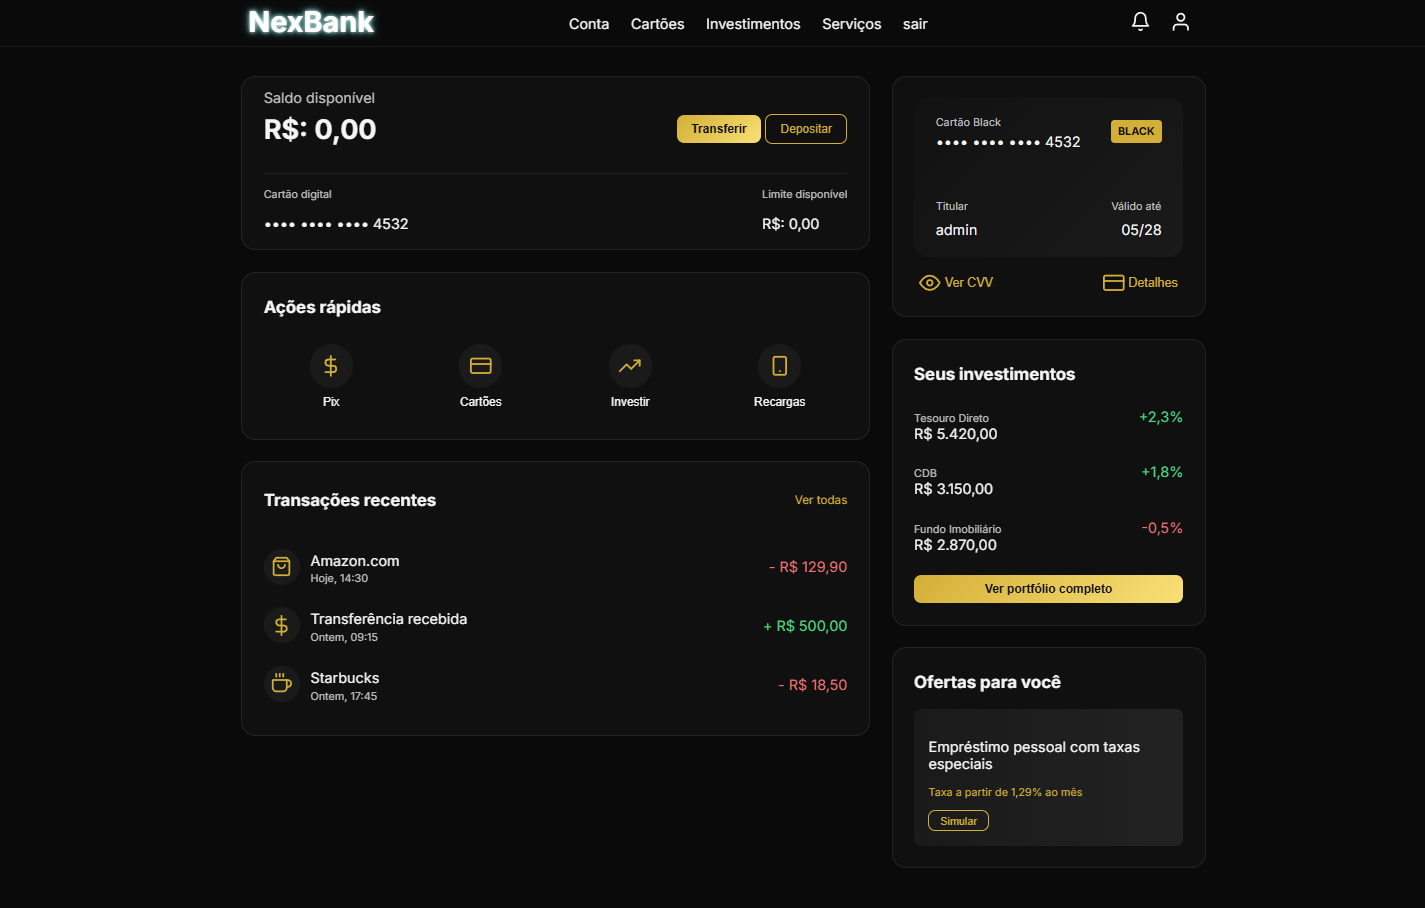
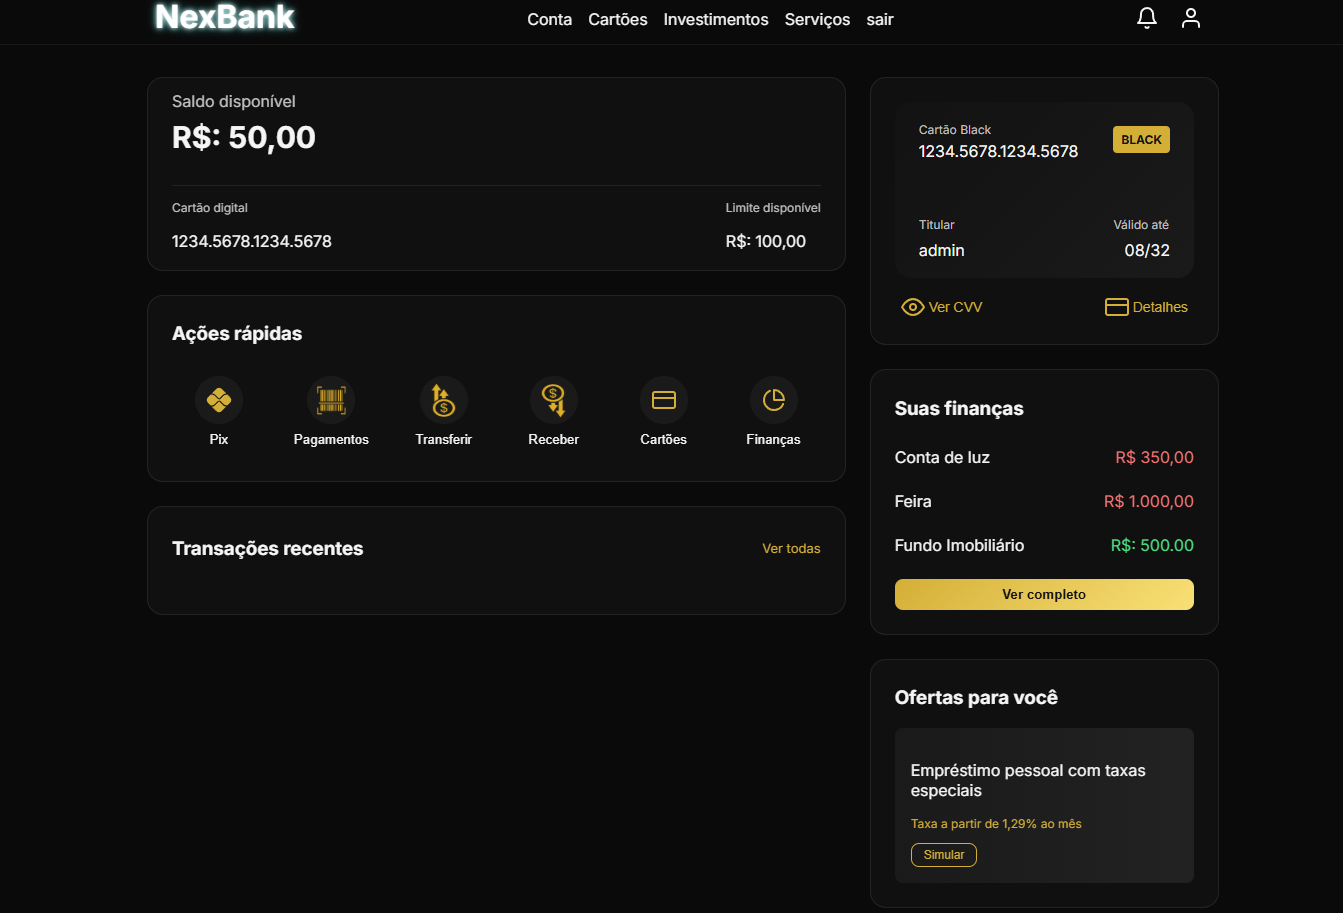
updade readme

diff --git a/readme.md b/readme.md
@@ -20,6 +20,10 @@ O sistema utiliza **SQLite** para persistência de dados e implementa **hash de 
 
 ![alt text](/fotos/home.png)
 
+✅ Tela de interface responsiva
+
+![alt text](/fotos/resposividade.png)
+
 --- Em Desenvolvimento ---
 
 
